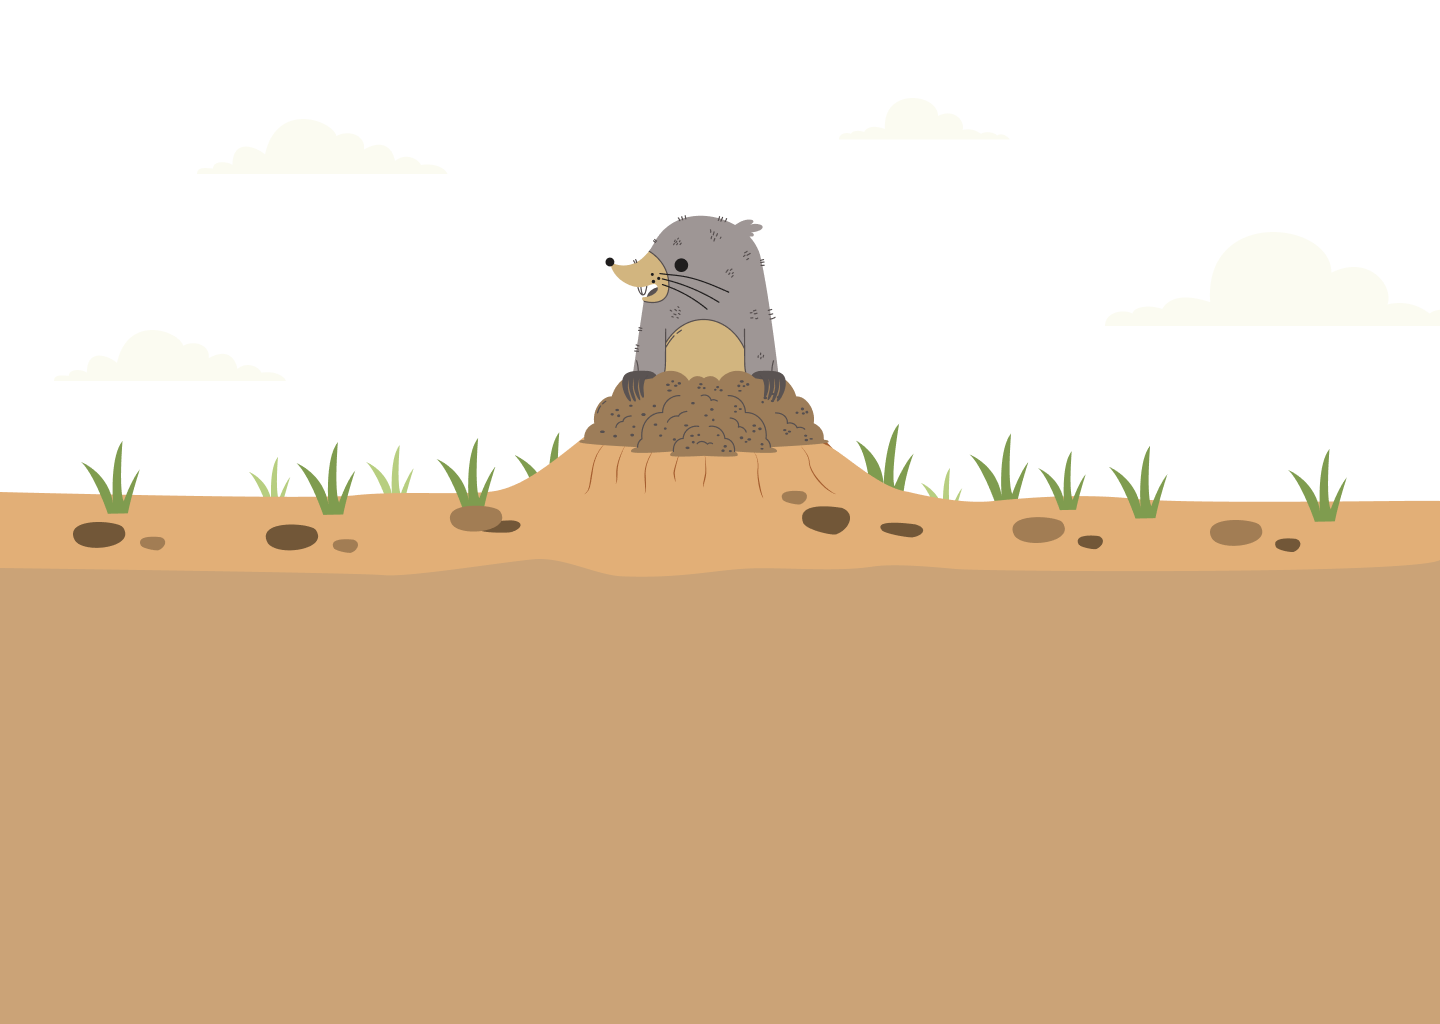
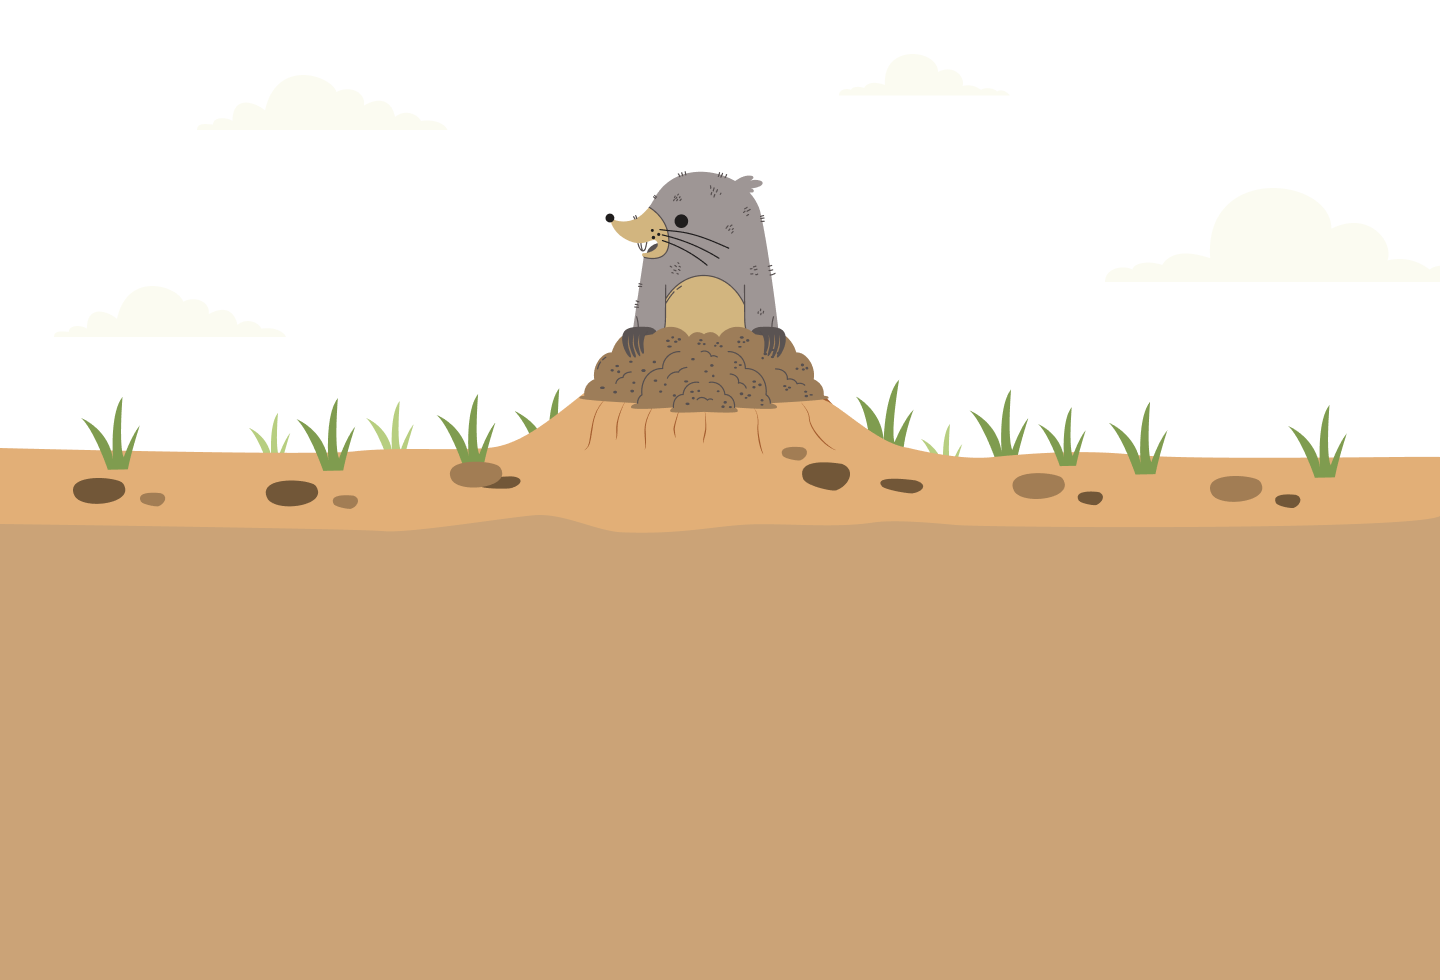
404 -готова, но нету 1920 картинки

Changed region(s): [[0.0, 0.1531, 1.0, 0.551]]

diff --git a/src/pages/404_ErrorNotFound.vue b/src/pages/404_ErrorNotFound.vue
@@ -1,10 +1,10 @@
 <template>
-  <div class="body_404 fullscreen column">
-    <div class="col-4">
+  <div class="body_404 fullscreen flex justify-center items-center column">
+    <div class="full-width">
       <AppHeaderCompact />
     </div>
 
-    <div class="col text-white text-center q-pa-md" style="margin: 0 auto;">
+    <div class="col text-white text-center q-pa-md flex items-end" style="margin: 0 auto;">
       <div style="max-width: 570px;">
         <div class="row q-pa-md">
           <div class="text-uc_button_text h1_bigger7 col-12 col-sm" style="font-weight: 700;">404</div>
@@ -26,7 +26,7 @@
       </div>
 
     </div>
-    <div class="col">
+    <div class="full-width self-end flex_footer_container" style="background-color: #CBA377;">
       <AppFooter footerTypeProp="white" />
     </div>
 
@@ -45,10 +45,57 @@ import AppFooter from 'src/components/AppFooter.vue'
 //     linear-gradient(180deg, rgba(203, 163, 119, 0) 10%, rgba(203, 163, 119, 1) 20%, rgba(203, 163, 119, 1) 100%);
 // }
 
+// .body_404 {
+//   background: url(../assets/images/401_404/bg_404_1440px.webp) no-repeat,
+//     linear-gradient(180deg, rgba(208, 231, 241, 1) 0%, rgba(239, 223, 187, 1) 66%, rgba(239, 223, 187, 1) 100%);
+//   background-blend-mode: normal;
+//   background-origin: padding-box;
+// }
 .body_404 {
-  background: url(../assets/images/401_404/bg_404_1440px.webp) no-repeat,
+  background: url(../assets/images/401_404/bg_404_390px.webp) no-repeat,
     linear-gradient(180deg, rgba(208, 231, 241, 1) 0%, rgba(239, 223, 187, 1) 66%, rgba(239, 223, 187, 1) 100%);
-  background-blend-mode: normal;
-  background-origin: padding-box;
+}
+
+.flex_footer_container {
+  max-height: 160px !important;
+}
+
+@media (max-width: 600px) {
+  .flex_footer_container {
+    max-height: 260px !important;
+  }
+}
+
+@media (min-width: 390.99px) {
+  .body_404 {
+    background: url(../assets/images/401_404/bg_404_744px.webp) no-repeat,
+      linear-gradient(180deg, rgba(208, 231, 241, 1) 0%, rgba(239, 223, 187, 1) 66%, rgba(239, 223, 187, 1) 100%);
+    background-clip: border-box;
+    background-position-x: center;
+    background-position-y: top;
+    image-rendering: pixelated;
+  }
+}
+
+@media (min-width: 744.99px) {
+  .body_404 {
+    background: url(../assets/images/401_404/bg_404_1440px.webp) no-repeat,
+      linear-gradient(180deg, rgba(208, 231, 241, 1) 0%, rgba(239, 223, 187, 1) 66%, rgba(239, 223, 187, 1) 100%);
+    background-clip: border-box;
+    background-position-x: center;
+    background-position-y: top;
+    image-rendering: pixelated;
+  }
+}
+
+@media (min-width: 1440.99px) {
+  .body_404 {
+    background: url(../assets/images/401_404/bg_404_1920px.webp) no-repeat,
+      linear-gradient(180deg, rgba(208, 231, 241, 1) 0%, rgba(239, 223, 187, 1) 66%, rgba(239, 223, 187, 1) 100%);
+    background-clip: border-box;
+    background-position-x: center;
+    background-position-y: top;
+    image-rendering: pixelated;
+  }
 }
 </style>
